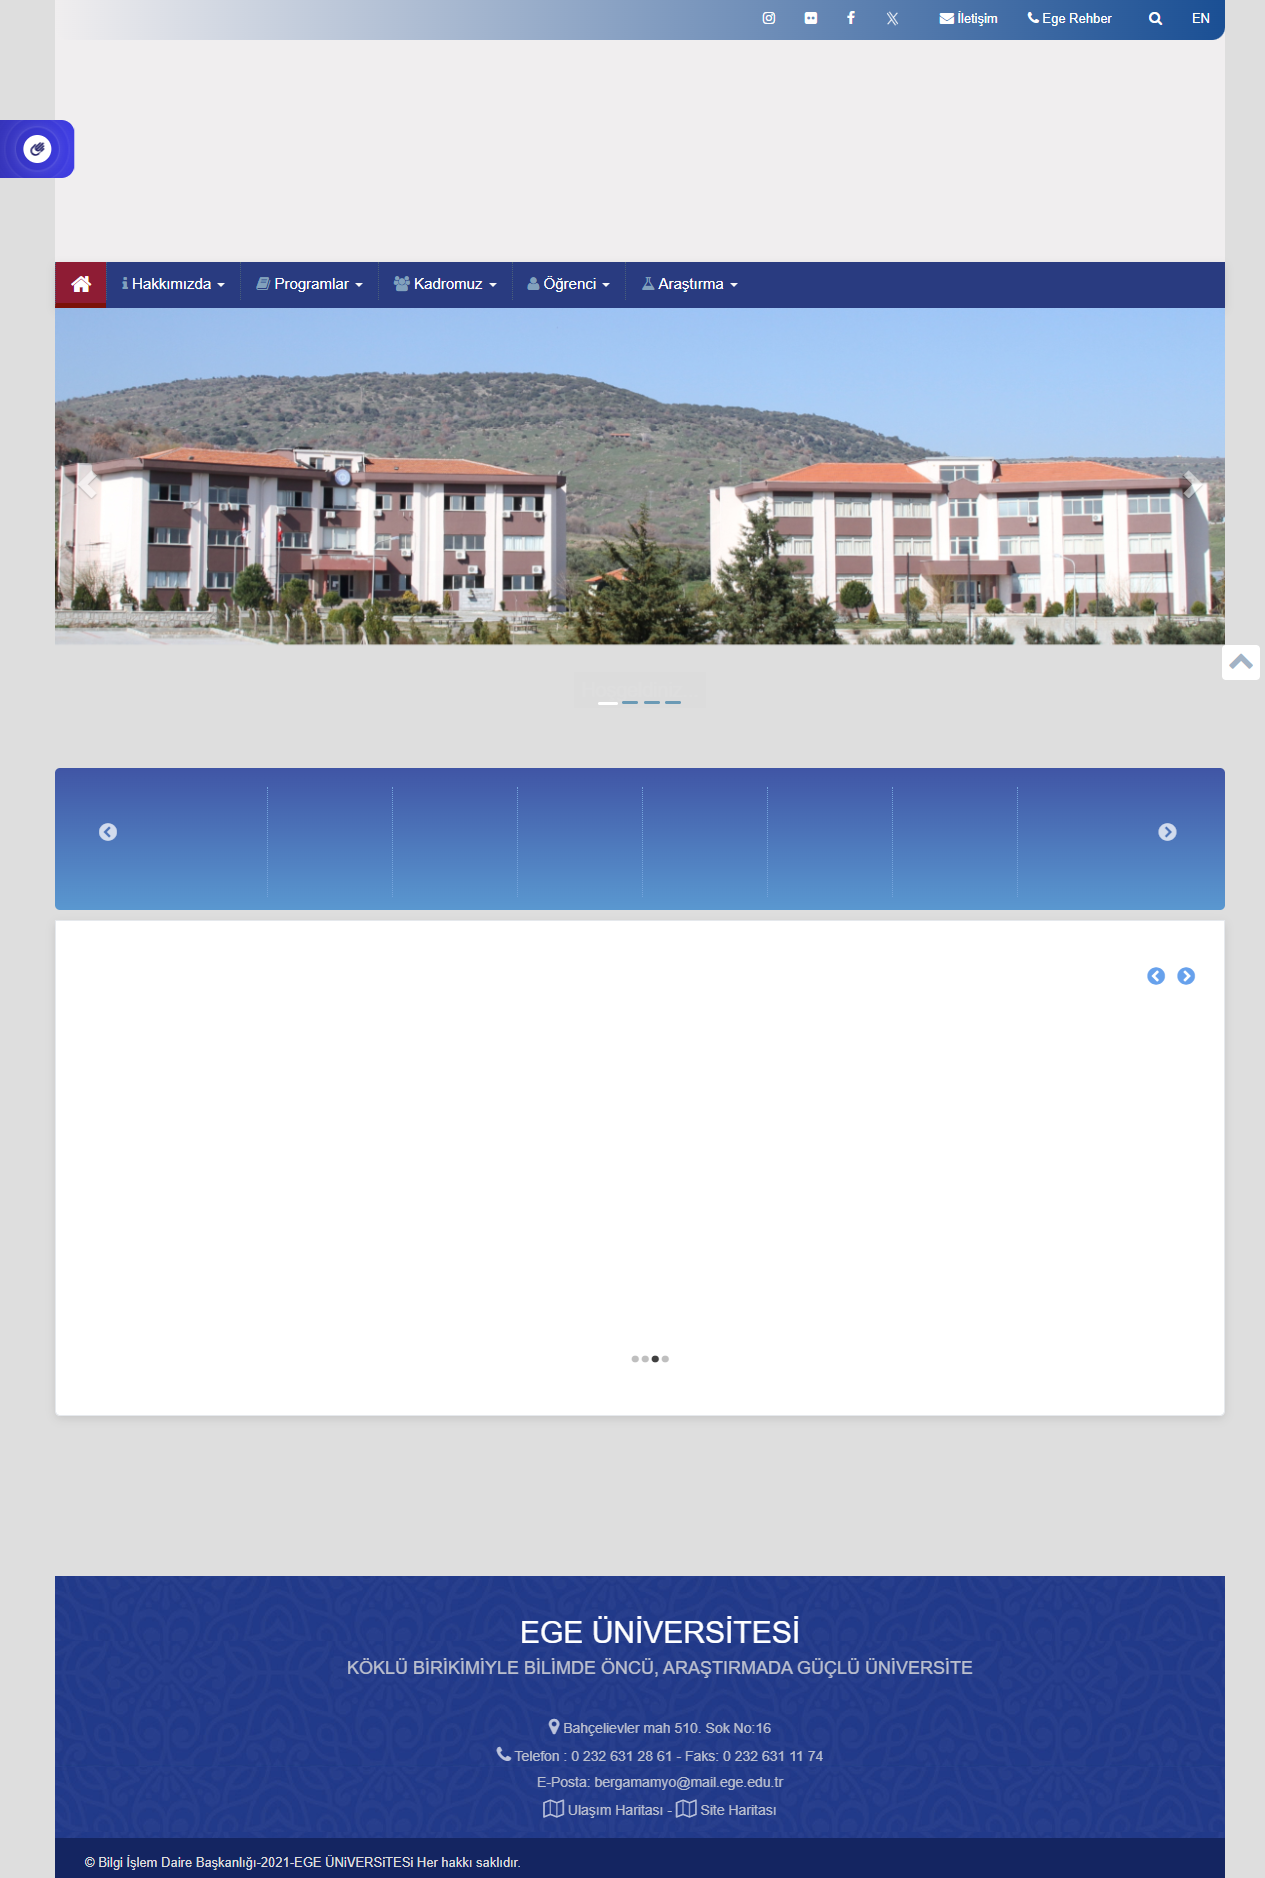
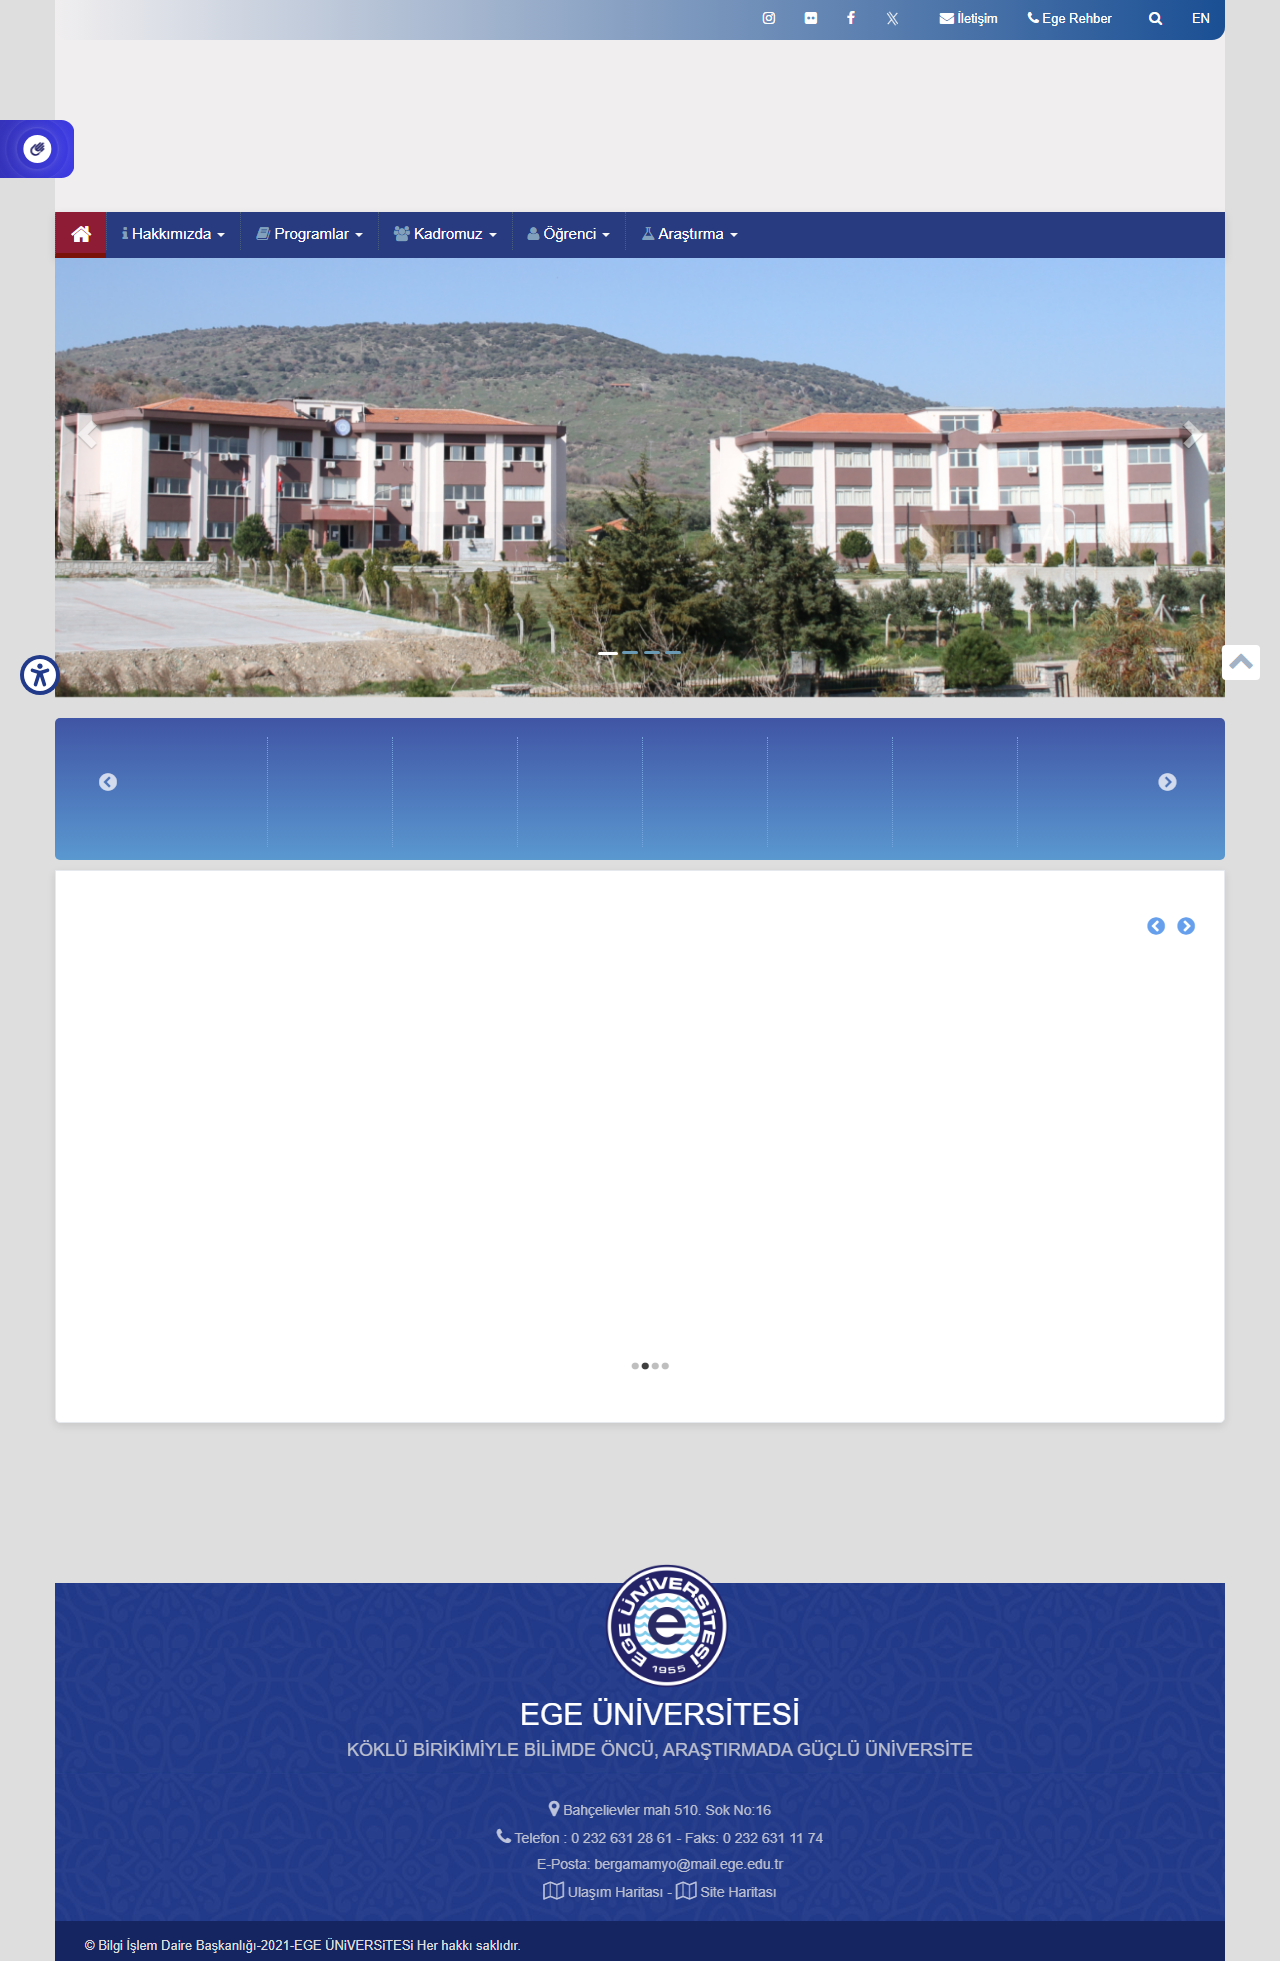
Pin the console output to UTF-8 on Windows (fixes the emoji/Turkish crash)
On the Windows cp1252 console, emoji and Turkish characters broke print and
crashed the bot. stdout/stderr are pinned to UTF-8. Added an up-to-date
screenshot.

Claude-Session: https://claude.ai/code/session_01GgFWJvMUUuATH3Jp7v1v7H

diff --git a/proje.py b/proje.py
@@ -12,6 +12,13 @@ import sys
 
 from playwright.sync_api import sync_playwright
 
+# Windows konsolu (cp1252) emoji/Türkçe karakterlerde hata verebilir; çıktıyı UTF-8'e sabitle.
+try:
+    sys.stdout.reconfigure(encoding="utf-8")
+    sys.stderr.reconfigure(encoding="utf-8")
+except (AttributeError, ValueError):
+    pass
+
 TARGET_URL = os.getenv("TARGET_URL", "https://bergamamyo.ege.edu.tr/")
 OUTPUT_PATH = os.getenv("OUTPUT_PATH", "bergama_myo.png")
 
